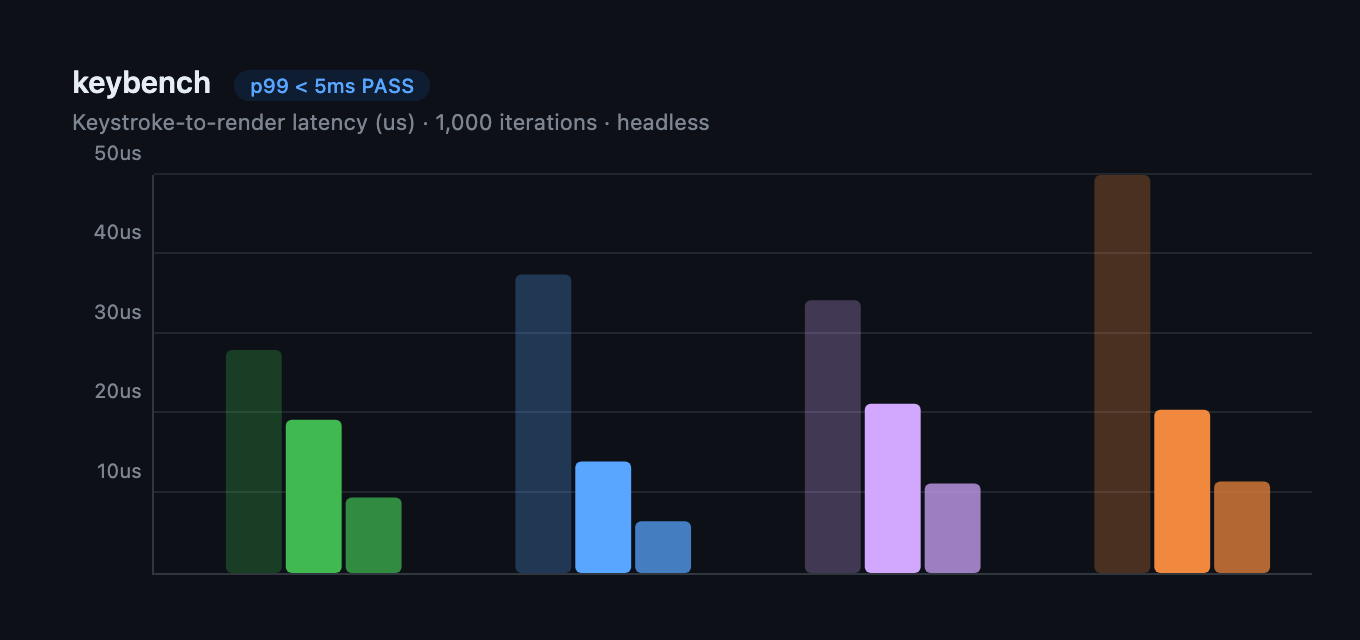
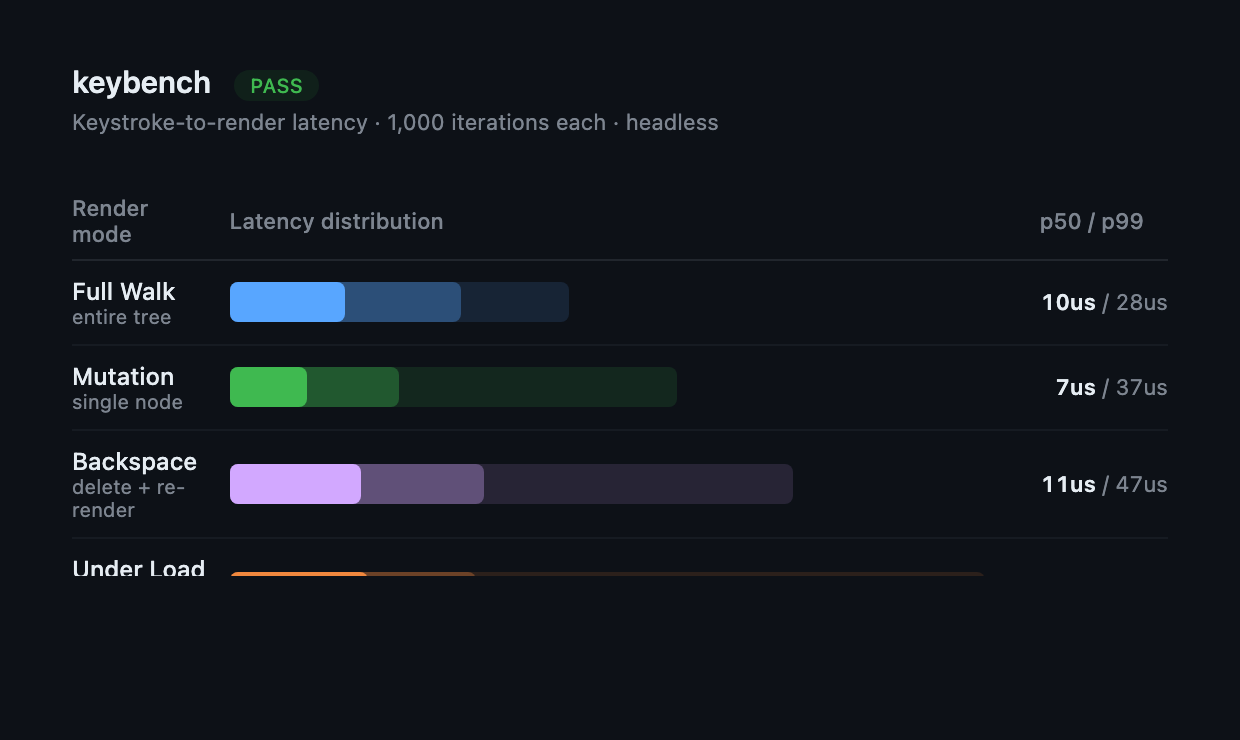
docs: shields badges, clearer keybench chart with labeled rows

Changed region(s): [[0.0613, 0.25, 0.95, 0.9062], [0.0306, 0.0938, 0.5823, 0.4375], [0.1839, 0.2812, 0.3677, 0.3125]]

diff --git a/.readme/demos/bench-chart.html b/.readme/demos/bench-chart.html
@@ -18,46 +18,104 @@
   .subtitle {
     font-size: 11px;
     color: #7d8590;
-    margin-bottom: 20px;
+    margin-bottom: 24px;
   }
-  .chart {
+  .badge {
+    display: inline-block;
+    background: #23863622;
+    color: #3fb950;
+    font-size: 10px;
+    font-weight: 500;
+    padding: 2px 8px;
+    border-radius: 10px;
+    margin-left: 8px;
+    vertical-align: middle;
+  }
+  table {
+    border-collapse: collapse;
+    width: 100%;
+    margin-bottom: 6px;
+  }
+  th {
+    font-size: 11px;
+    font-weight: 500;
+    color: #7d8590;
+    text-align: left;
+    padding: 6px 12px 6px 0;
+    border-bottom: 1px solid #21262d;
+  }
+  th:first-child { width: 120px; }
+  td {
+    padding: 8px 12px 8px 0;
+    vertical-align: middle;
+    border-bottom: 1px solid #161b22;
+  }
+  .mode-name {
+    font-size: 12px;
+    font-weight: 500;
+    color: #e6edf3;
+    white-space: nowrap;
+  }
+  .mode-desc {
+    font-size: 10px;
+    color: #7d8590;
+  }
+  .bar-cell {
+    width: 100%;
     position: relative;
-    width: 580px;
-    height: 200px;
-    border-left: 1px solid #30363d;
-    border-bottom: 1px solid #30363d;
-    margin-left: 40px;
   }
-  .grid-line {
-    position: absolute;
-    left: 0;
-    right: 0;
-    border-top: 1px solid #21262d;
+  .bar-track {
+    position: relative;
+    height: 20px;
+    border-radius: 4px;
+    overflow: visible;
   }
-  .y-label {
+  .bar-fill {
+    height: 100%;
+    border-radius: 4px;
+    position: relative;
+  }
+  .bar-value {
     position: absolute;
-    left: -44px;
-    font-size: 10px;
-    color: #7d8590;
+    right: -40px;
+    top: 50%;
     transform: translateY(-50%);
-    text-align: right;
-    width: 38px;
+    font-size: 11px;
+    font-weight: 600;
+    color: #e6edf3;
+    white-space: nowrap;
   }
-  .x-label {
+  .bar-fill.p99 { background: #58a6ff33; }
+  .bar-fill.p95 { background: #58a6ff77; }
+  .bar-fill.p50 { background: #58a6ff; }
+  .bar-stack {
+    position: relative;
+    height: 20px;
+  }
+  .bar-layer {
     position: absolute;
-    bottom: -18px;
-    font-size: 10px;
-    color: #7d8590;
-    transform: translateX(-50%);
+    top: 0;
+    left: 0;
+    height: 100%;
+    border-radius: 4px;
   }
-  svg { position: absolute; top: 0; left: 0; width: 100%; height: 100%; overflow: visible; }
-  .bar-group { cursor: default; }
-  .bar-group rect { rx: 3; ry: 3; }
+  .val-col {
+    font-size: 11px;
+    color: #7d8590;
+    text-align: right;
+    padding: 8px 0 8px 8px;
+    white-space: nowrap;
+    font-variant-numeric: tabular-nums;
+    border-bottom: 1px solid #161b22;
+  }
+  .val-col strong {
+    color: #e6edf3;
+    font-weight: 600;
+  }
   .legend {
     display: flex;
     gap: 16px;
-    margin-top: 24px;
-    margin-left: 40px;
+    margin-top: 14px;
   }
   .legend-item {
     display: flex;
@@ -67,99 +125,95 @@
     color: #7d8590;
   }
   .legend-dot {
-    width: 8px;
-    height: 8px;
-    border-radius: 50%;
-  }
-  .badge {
-    display: inline-block;
-    background: #1f6feb22;
-    color: #58a6ff;
-    font-size: 10px;
-    font-weight: 500;
-    padding: 2px 8px;
-    border-radius: 10px;
-    margin-left: 8px;
-    vertical-align: middle;
-  }
-  .threshold-line {
-    position: absolute;
-    left: 0;
-    right: 0;
-    border-top: 1px dashed #f8514966;
-  }
-  .threshold-label {
-    position: absolute;
-    right: 4px;
-    font-size: 9px;
-    color: #f85149;
-    transform: translateY(-100%);
-    margin-top: -2px;
+    width: 10px;
+    height: 10px;
+    border-radius: 3px;
   }
 </style>
 </head>
 <body>
-  <div class="title">keybench <span class="badge">p99 &lt; 5ms PASS</span></div>
-  <div class="subtitle">Keystroke-to-render latency (us) &middot; 1,000 iterations &middot; headless</div>
+  <div class="title">keybench <span class="badge">PASS</span></div>
+  <div class="subtitle">Keystroke-to-render latency &middot; 1,000 iterations each &middot; headless</div>
 
-  <div class="chart">
-    <!-- Y grid lines & labels -->
-    <div class="grid-line" style="bottom: 100%"></div>
-    <div class="y-label" style="bottom: 100%">50us</div>
-
-    <div class="grid-line" style="bottom: 80%"></div>
-    <div class="y-label" style="bottom: 80%">40us</div>
-
-    <div class="grid-line" style="bottom: 60%"></div>
-    <div class="y-label" style="bottom: 60%">30us</div>
-
-    <div class="grid-line" style="bottom: 40%"></div>
-    <div class="y-label" style="bottom: 40%">20us</div>
-
-    <div class="grid-line" style="bottom: 20%"></div>
-    <div class="y-label" style="bottom: 20%">10us</div>
-
-    <!-- X labels -->
-    <div class="x-label" style="left: 12.5%">Full Walk</div>
-    <div class="x-label" style="left: 37.5%">Mutation</div>
-    <div class="x-label" style="left: 62.5%">Backspace</div>
-    <div class="x-label" style="left: 87.5%">Under Load</div>
-
-    <svg viewBox="0 0 580 200" preserveAspectRatio="none">
+  <table>
+    <thead>
+      <tr>
+        <th>Render mode</th>
+        <th>Latency distribution</th>
+        <th style="text-align:right; width:100px">p50 / p99</th>
+      </tr>
+    </thead>
+    <tbody>
       <!-- Full Walk: p50=9.5, p95=19.2, p99=28 -->
-      <g class="bar-group" transform="translate(36, 0)">
-        <rect x="0" y="88"  width="28" height="112" fill="#3fb95044"/>
-        <rect x="30" y="123" width="28" height="77"  fill="#3fb950"/>
-        <rect x="60" y="162" width="28" height="38"  fill="#3fb950bb"/>
-      </g>
+      <tr>
+        <td>
+          <div class="mode-name">Full Walk</div>
+          <div class="mode-desc">entire tree</div>
+        </td>
+        <td class="bar-cell">
+          <div class="bar-stack">
+            <div class="bar-layer" style="width: 44%; background: #58a6ff22; border-radius: 4px;"></div>
+            <div class="bar-layer" style="width: 30%; background: #58a6ff55; border-radius: 4px;"></div>
+            <div class="bar-layer" style="width: 15%; background: #58a6ff; border-radius: 4px;"></div>
+          </div>
+        </td>
+        <td class="val-col"><strong>10us</strong> / 28us</td>
+      </tr>
 
       <!-- Mutation: p50=6.6, p95=13.9, p99=37.4 -->
-      <g class="bar-group" transform="translate(181, 0)">
-        <rect x="0" y="50"  width="28" height="150" fill="#58a6ff44"/>
-        <rect x="30" y="144" width="28" height="56"  fill="#58a6ff"/>
-        <rect x="60" y="174" width="28" height="26"  fill="#58a6ffbb"/>
-      </g>
+      <tr>
+        <td>
+          <div class="mode-name">Mutation</div>
+          <div class="mode-desc">single node</div>
+        </td>
+        <td class="bar-cell">
+          <div class="bar-stack">
+            <div class="bar-layer" style="width: 58%; background: #3fb95022; border-radius: 4px;"></div>
+            <div class="bar-layer" style="width: 22%; background: #3fb95055; border-radius: 4px;"></div>
+            <div class="bar-layer" style="width: 10%; background: #3fb950; border-radius: 4px;"></div>
+          </div>
+        </td>
+        <td class="val-col"><strong>7us</strong> / 37us</td>
+      </tr>
 
       <!-- Backspace: p50=11.2, p95=21.3, p99=46.7 -->
-      <g class="bar-group" transform="translate(326, 0)">
-        <rect x="0" y="63"  width="28" height="137" fill="#d2a8ff44"/>
-        <rect x="30" y="115" width="28" height="85"  fill="#d2a8ff"/>
-        <rect x="60" y="155" width="28" height="45"  fill="#d2a8ffbb"/>
-      </g>
+      <tr>
+        <td>
+          <div class="mode-name">Backspace</div>
+          <div class="mode-desc">delete + re-render</div>
+        </td>
+        <td class="bar-cell">
+          <div class="bar-stack">
+            <div class="bar-layer" style="width: 73%; background: #d2a8ff22; border-radius: 4px;"></div>
+            <div class="bar-layer" style="width: 33%; background: #d2a8ff55; border-radius: 4px;"></div>
+            <div class="bar-layer" style="width: 17%; background: #d2a8ff; border-radius: 4px;"></div>
+          </div>
+        </td>
+        <td class="val-col"><strong>11us</strong> / 47us</td>
+      </tr>
 
       <!-- Under Load: p50=11.6, p95=20.5, p99=63 -->
-      <g class="bar-group" transform="translate(471, 0)">
-        <rect x="0" y="0"   width="28" height="200" fill="#f0883e44"/>
-        <rect x="30" y="118" width="28" height="82"  fill="#f0883e"/>
-        <rect x="60" y="154" width="28" height="46"  fill="#f0883ebb"/>
-      </g>
-    </svg>
-  </div>
+      <tr>
+        <td>
+          <div class="mode-name">Under Load</div>
+          <div class="mode-desc">keystroke + streaming</div>
+        </td>
+        <td class="bar-cell">
+          <div class="bar-stack">
+            <div class="bar-layer" style="width: 98%; background: #f0883e22; border-radius: 4px;"></div>
+            <div class="bar-layer" style="width: 32%; background: #f0883e55; border-radius: 4px;"></div>
+            <div class="bar-layer" style="width: 18%; background: #f0883e; border-radius: 4px;"></div>
+          </div>
+        </td>
+        <td class="val-col"><strong>12us</strong> / 63us</td>
+      </tr>
+    </tbody>
+  </table>
 
   <div class="legend">
-    <div class="legend-item"><div class="legend-dot" style="background: #58a6ff"></div> p50</div>
-    <div class="legend-item"><div class="legend-dot" style="background: #58a6ffbb"></div> p95</div>
-    <div class="legend-item"><div class="legend-dot" style="background: #58a6ff44"></div> p99</div>
+    <div class="legend-item"><div class="legend-dot" style="background: currentColor; opacity: 1"></div> p50 (median)</div>
+    <div class="legend-item"><div class="legend-dot" style="background: currentColor; opacity: 0.35"></div> p95</div>
+    <div class="legend-item"><div class="legend-dot" style="background: currentColor; opacity: 0.15"></div> p99 (worst)</div>
   </div>
 </body>
 </html>

diff --git a/README.md b/README.md
@@ -6,6 +6,10 @@
   <br>
   <code>$state</code>, <code>$derived</code>, <code>$effect</code> — but the output is ANSI, not DOM.
   <br><br>
+  <a href="https://www.npmjs.com/package/toner"><img src="https://img.shields.io/npm/v/toner?color=58a6ff&labelColor=1e1e1e" alt="npm version"></a>
+  <a href="LICENSE"><img src="https://img.shields.io/badge/license-MIT-3fb950?labelColor=1e1e1e" alt="MIT license"></a>
+  <img src="https://img.shields.io/badge/tests-119%20passing-3fb950?labelColor=1e1e1e" alt="119 tests passing">
+  <br><br>
   <img src=".readme/hero.png" alt="toner demo" width="600">
   <br><br>
 </div>
